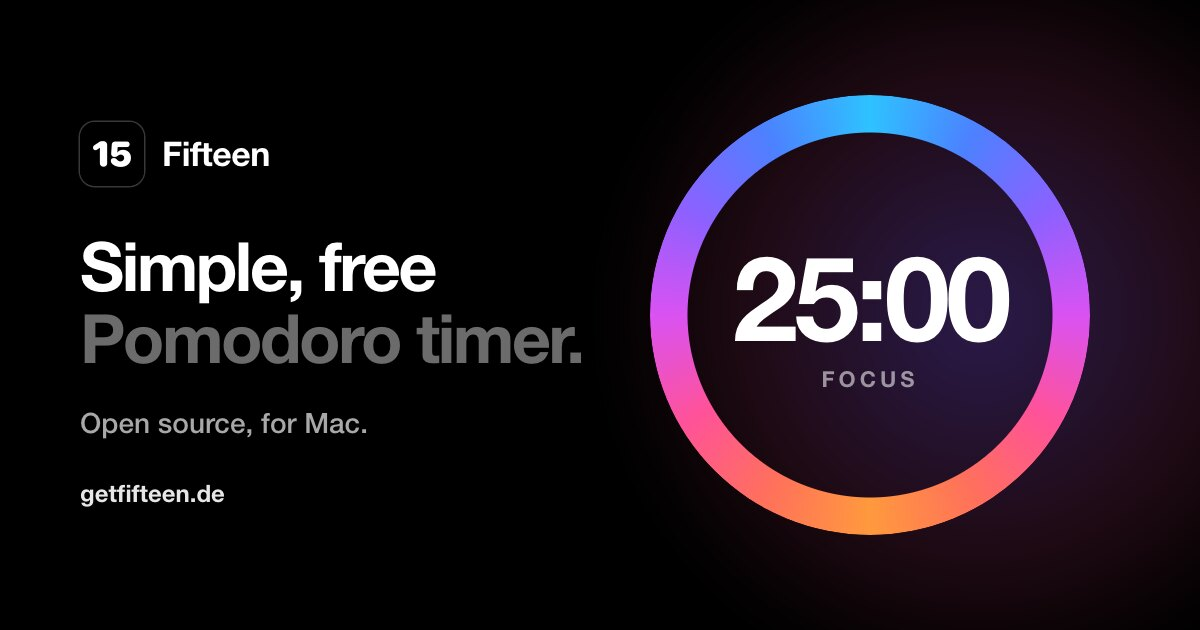
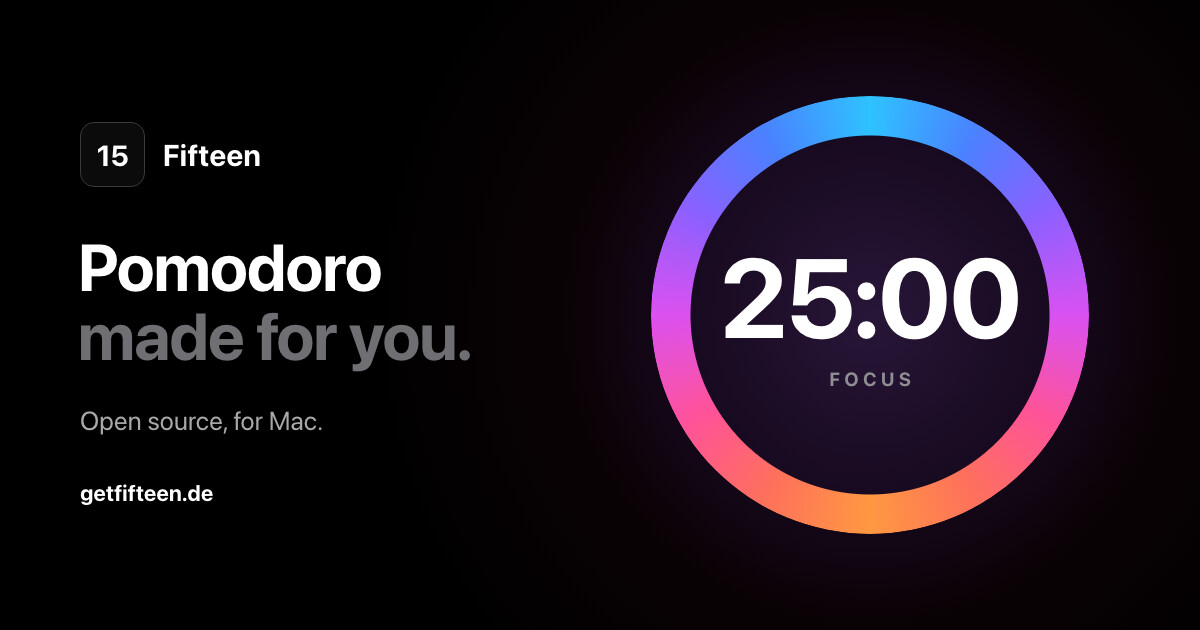
social media update

diff --git a/website/index.html b/website/index.html
@@ -16,7 +16,7 @@
     <link rel="canonical" href="https://getfifteen.de/" />
     <meta property="og:type" content="website" />
     <meta property="og:url" content="https://getfifteen.de/" />
-    <meta property="og:title" content="Fifteen · Pomodoro timer for Mac" />
+    <meta property="og:title" content="Fifteen · Pomodoro made for you" />
     <meta property="og:description" content="A feature-rich, free and open source Pomodoro timer to keep you focused, day in, day out." />
     <meta property="og:site_name" content="Fifteen" />
     <meta property="og:image" content="https://getfifteen.de/og.jpg" />
@@ -25,7 +25,7 @@
     <meta property="og:image:height" content="630" />
     <meta property="og:image:alt" content="Fifteen, a free and open-source Pomodoro timer for Mac" />
     <meta name="twitter:card" content="summary_large_image" />
-    <meta name="twitter:title" content="Fifteen · Pomodoro timer for Mac" />
+    <meta name="twitter:title" content="Fifteen · Pomodoro made for you" />
     <meta name="twitter:description" content="A feature-rich, free and open source Pomodoro timer to keep you focused, day in, day out." />
     <meta name="twitter:image" content="https://getfifteen.de/og.jpg" />
   </head>
